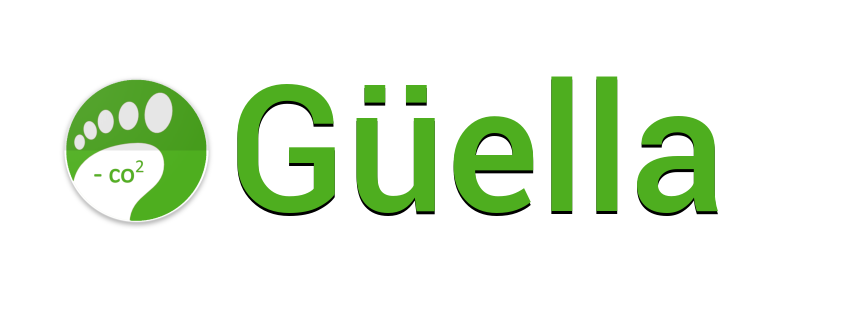
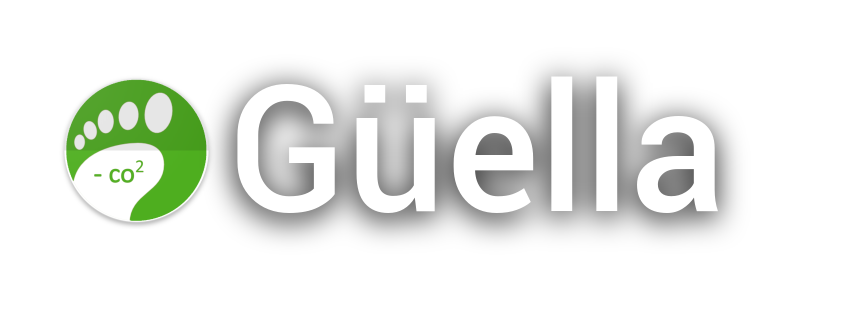
agregados niveles de usuario, guella transparente remplazado

Changed region(s): [[0.2444, 0.2, 0.886, 0.7714]]

diff --git a/src/components/user-points/user-points.html b/src/components/user-points/user-points.html
@@ -1,1 +1,21 @@
-<p>{{puntos}} puntos</p>
+<h3>{{puntos}} puntos</h3>
+<div *ngIf="puntos<50" >
+    <img  class="item" src="../../assets/imgs/cone.png"/>
+    <h4>Eres un Conejo!</h4>
+    <p>Has dado el primer paso para convertirte en el nuevo salvador del mundo, las huellas de conejos son todavia pequenas, pero se hace camino al caminar.</p>
+</div>
+<div *ngIf="puntos>50 && puntos<100" >
+    <img class="item"  src="../../assets/imgs/coco.png"/>
+    <h4>Eres un Cocodrilo</h4>
+    <p>Tu huella ahora es mas significante, y con cada actividad crece, y esto no es solo beneficioso para ti, sino para todos los que te rodean.</p>
+</div>
+<div *ngIf="puntos>100 && puntos<500">
+    <img class="item"  src="../../assets/imgs/oso.png"/>
+    <h4>Eres un Oso</h4>
+    <p>Gran Oso, eres como un ninja del medio ambiente, has encontrado el camino hacia un planeta mas sustentable</p>
+</div>
+<div *ngIf="puntos>500">
+    <img class="item" src="../../assets/imgs/ele.png"/>
+    <h4>Eres un Elefante</h4>
+    <p>Uh lala senor frances, eres el amo y senor del medioambiente, todos tus amigos querraan ser como vos</p>
+</div>

diff --git a/src/components/user-points/user-points.scss b/src/components/user-points/user-points.scss
@@ -1,3 +1,11 @@
 user-points {
 
 }
+
+.item{
+    width:150px;
+    height:150px;
+    -webkit-border-radius: 50%;
+    border-radius: 50%;
+    overflow: hidden;
+}
